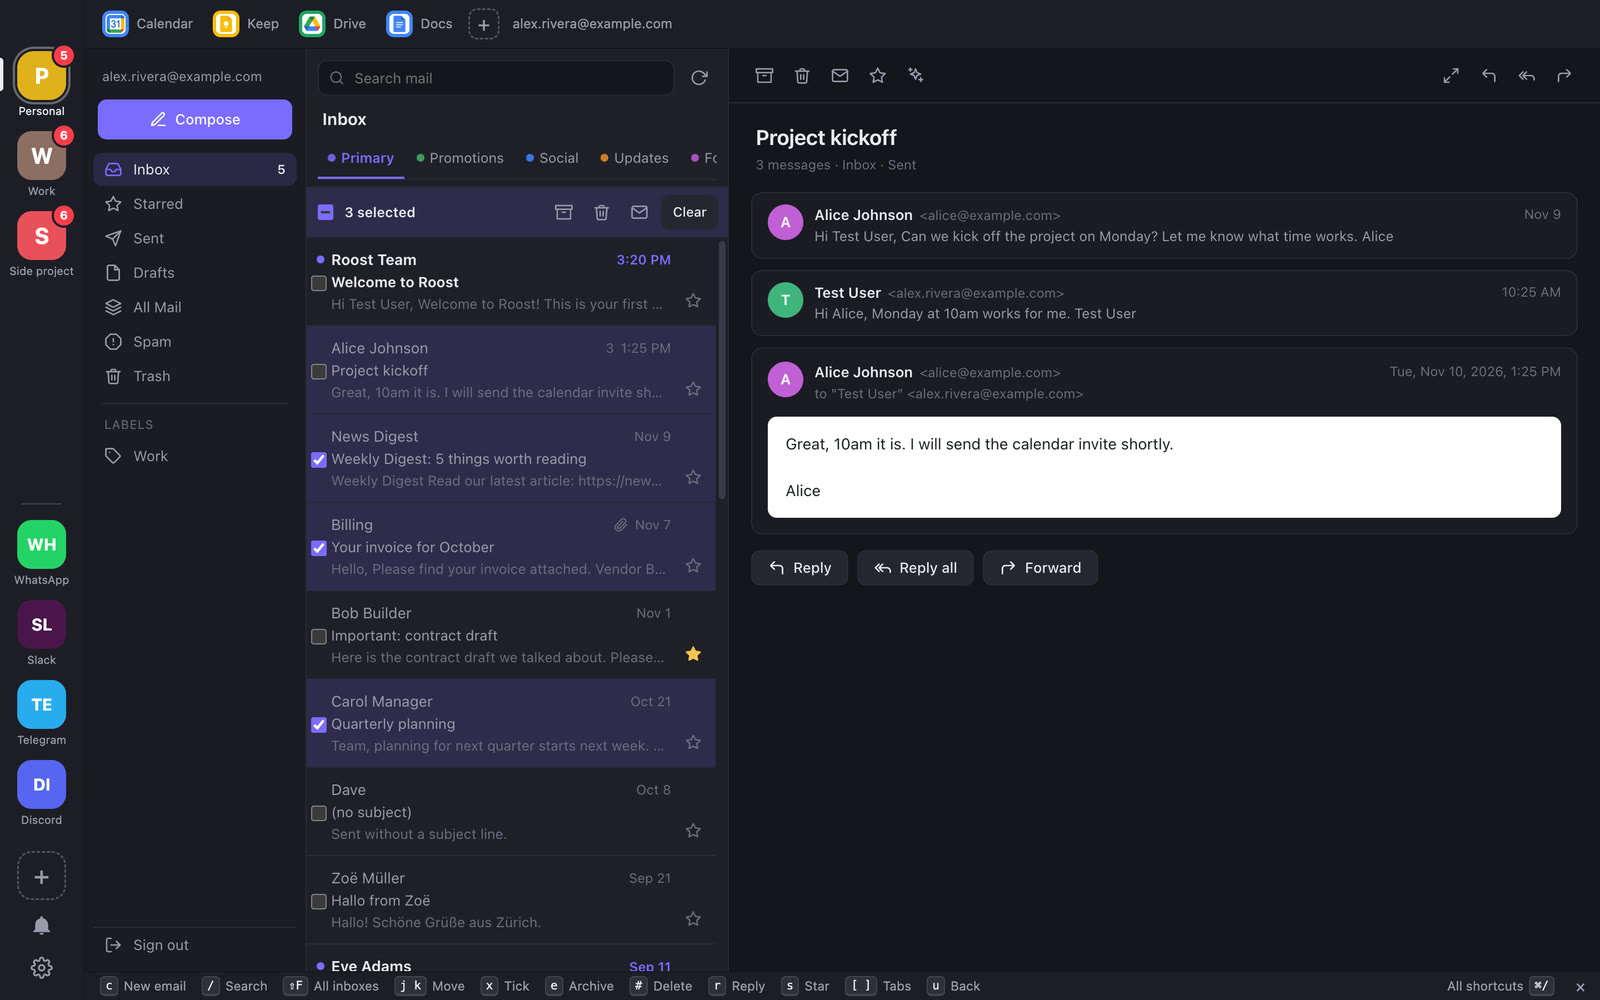
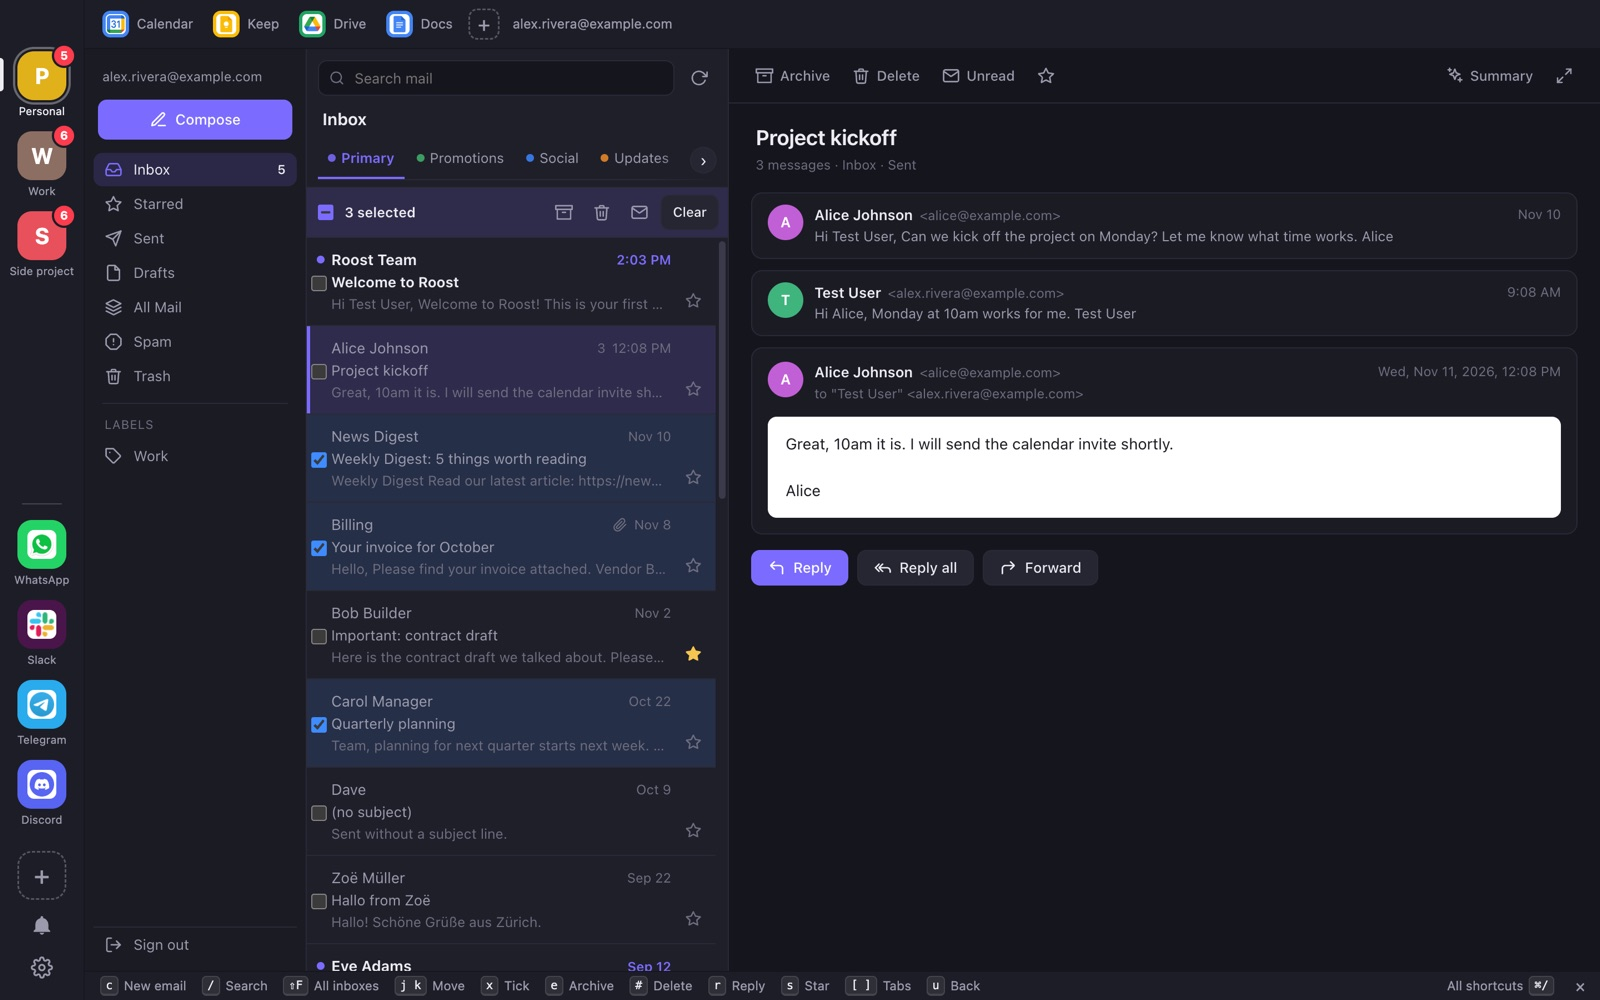
Homepage: Roost 0.2.0, releases section, new screenshots
- New "What's new" section with the 0.2.0 and 0.1.0 releases.
- Feature blocks for the welcome tiles, the Connect Gmail guide and
  the "All done" screen; Undo for delete; calmer badges.
- All screenshots regenerated from the fake test data.

diff --git a/index.html b/index.html
@@ -19,6 +19,7 @@
     <a class="brand" href="#top"><img src="icon.png" alt="" width="28" height="28"> Roost</a>
     <div class="links">
       <a href="#features">Features</a>
+      <a href="#releases">What's new</a>
       <a href="#install">Install</a>
       <a href="privacy.html">Privacy</a>
       <a class="gh" href="https://github.com/sylphdesign/roost">GitHub</a>
@@ -72,9 +73,26 @@
 
     <article class="feature reveal">
       <div class="copy">
+        <h3>Set up in a minute</h3>
+        <p>Pick the apps you use from tiles and add them all with one click. Connecting Gmail is a short guide: drop the key file you download from Google, and Roost fills in the rest.</p>
+        <ul><li>Chat apps: just sign in</li><li>Gmail: 4 steps with a progress bar</li><li>See Google's warning page before it shows up</li></ul>
+      </div>
+      <figure class="shot"><img src="img/00-welcome.jpg" alt="Welcome screen with tiles for Gmail, WhatsApp, Slack, Telegram, Discord, Messenger and Google Calendar" loading="lazy" width="1600" height="1000"></figure>
+    </article>
+
+    <article class="feature flip reveal">
+      <div class="copy">
+        <h3>Connect Gmail, step by step</h3>
+        <p>Google asks every desktop app to bring its own key. Roost walks you through it, checks what you paste, and remembers where you stopped.</p>
+      </div>
+      <figure class="shot"><img src="img/10-connect-gmail.jpg" alt="Connect Gmail guide on step 4 of 4 with a checked Client ID" loading="lazy" width="1600" height="1000"></figure>
+    </article>
+
+    <article class="feature reveal">
+      <div class="copy">
         <h3>Gmail, the way you like it</h3>
         <p>Inbox tabs — Primary, Promotions, Social, Updates, Forums — just like Gmail. Read, reply, archive, star. Images load by default; scripts stay blocked.</p>
-        <ul><li>Uses Google's official Gmail API</li><li>Many accounts, each separate</li><li>Optional AI help with your own Claude key</li></ul>
+        <ul><li>Uses Google's official Gmail API</li><li>Many accounts, each separate</li><li>Red badges only for mail from people</li><li>Optional AI help with your own Claude key</li></ul>
       </div>
       <figure class="shot"><img src="img/01-inbox.jpg" alt="Inbox with tabs and an open email" loading="lazy" width="1600" height="1000"></figure>
     </article>
@@ -83,12 +101,20 @@
       <div class="copy">
         <h3>Clear out in seconds</h3>
         <p>Delete or archive from the list without opening anything. Tick a few emails — or all of them — and act on the whole group.</p>
-        <ul><li><kbd>x</kbd> tick · <kbd>e</kbd> archive · <kbd>#</kbd> delete</li><li>Undo for archive</li></ul>
+        <ul><li><kbd>x</kbd> tick · <kbd>e</kbd> archive · <kbd>#</kbd> delete</li><li>Undo for archive and delete</li></ul>
       </div>
       <figure class="shot"><img src="img/02-select-many.jpg" alt="Three emails ticked with archive and delete buttons" loading="lazy" width="1600" height="1000"></figure>
     </article>
 
     <article class="feature reveal">
+      <div class="copy">
+        <h3>All done feels done</h3>
+        <p>Clear an inbox tab and Roost says so, counts what you cleared today, and shows your next meetings from Google Calendar.</p>
+      </div>
+      <figure class="shot"><img src="img/12-inbox-done.jpg" alt="All done in an empty inbox tab, with two upcoming meetings" loading="lazy" width="1600" height="1000"></figure>
+    </article>
+
+    <article class="feature flip reveal">
       <div class="copy">
         <h3>Search every inbox at once</h3>
         <p>Press <kbd>⌘</kbd><kbd>⇧</kbd><kbd>F</kbd> and type. Results come back grouped by inbox; press Enter to open the email where it lives. Gmail search words like <code>from:</code> and <code>has:attachment</code> work too.</p>
@@ -96,7 +122,7 @@
       <figure class="shot"><img src="img/03-search-all-inboxes.jpg" alt="Search results from three inboxes" loading="lazy" width="1600" height="1000"></figure>
     </article>
 
-    <article class="feature flip reveal">
+    <article class="feature reveal">
       <div class="copy">
         <h3>Your calendar follows your inbox</h3>
         <p>Calendar, Keep, Drive and Docs sit in the top bar and open as the account of the inbox you're in. Event reminders arrive ten minutes before.</p>
@@ -104,7 +130,7 @@
       <figure class="shot"><img src="img/04-calendar.jpg" alt="Week view of Google Calendar inside Roost" loading="lazy" width="1600" height="1000"></figure>
     </article>
 
-    <article class="feature reveal">
+    <article class="feature flip reveal">
       <div class="copy">
         <h3>Read in full view</h3>
         <p>Hide the list with <kbd>\</kbd> for a calm, full-width email. Or open emails next to the list, under it, or full screen — your choice.</p>
@@ -112,7 +138,7 @@
       <figure class="shot"><img src="img/05-full-view.jpg" alt="An email shown full width with the list hidden" loading="lazy" width="1600" height="1000"></figure>
     </article>
 
-    <article class="feature flip reveal">
+    <article class="feature reveal">
       <div class="copy">
         <h3>Make it yours</h3>
         <p>List width, compact rows, preview text, the labels column, quiet hours, quiet during calls, per-app notifications, and your own icon for every inbox.</p>
@@ -120,7 +146,7 @@
       <figure class="shot"><img src="img/06-settings-email-view.jpg" alt="Settings showing Email view options" loading="lazy" width="1600" height="1000"></figure>
     </article>
 
-    <article class="feature reveal">
+    <article class="feature flip reveal">
       <div class="copy">
         <h3>Keyboard first</h3>
         <p>Every action has a key, and a slim bar at the bottom shows the ones that matter right now. Press <kbd>⌘</kbd><kbd>/</kbd> for the full list.</p>
@@ -154,7 +180,33 @@
     <div class="stat reveal"><span class="stat-num" data-count="100" data-suffix="%">0</span><span class="stat-label">open source (MIT)</span></div>
   </section>
 
-  <!-- 6. Install -->
+  <!-- 6. Releases -->
+  <section class="releases" id="releases">
+    <header class="section-head reveal">
+      <p class="kicker">What's new</p>
+      <h2>Releases</h2>
+    </header>
+    <article class="release reveal">
+      <div class="release-head"><span class="tag latest">Latest</span><h3>Roost 0.2.0</h3><time datetime="2026-11-11">11 Nov 2026</time></div>
+      <p>An easier start, a calmer sidebar and safer mistakes. Plus a new Gmail composer.</p>
+      <ul>
+        <li><b>Welcome tiles</b> and a 4-step <b>Connect Gmail</b> guide: drop the key file, Roost fills in the rest.</li>
+        <li><b>Red badges mean people.</b> Promotions and updates get a gray number. Real app icons, shipped with Roost.</li>
+        <li><b>Undo for Delete</b>, a heads-up before Google's 7-day sign-out, and clear ticked rows.</li>
+        <li><b>Words on the toolbar</b>, an <b>All done</b> screen with your next meetings, and a Settings menu.</li>
+        <li><b>New composer:</b> rich text, recipient autofill, Smart Compose with your Claude key.</li>
+      </ul>
+      <a class="release-link" href="https://github.com/sylphdesign/roost/releases/tag/v0.2.0">Release notes →</a>
+    </article>
+    <article class="release reveal">
+      <div class="release-head"><h3>Roost 0.1.0</h3><time datetime="2026-11-10">10 Nov 2026</time></div>
+      <p>First public release: Gmail and Google Calendar inside Roost, WhatsApp, Slack, Telegram, Discord and Messenger in one window, many accounts, search all inboxes, quiet time.</p>
+      <a class="release-link" href="https://github.com/sylphdesign/roost/releases/tag/v0.1.0">Release notes →</a>
+    </article>
+    <p class="caption reveal"><a href="https://github.com/sylphdesign/roost/releases">All releases on GitHub</a> · <a href="https://github.com/sylphdesign/roost/blob/main/CHANGELOG.md">Changelog</a></p>
+  </section>
+
+  <!-- 7. Install -->
   <section class="install" id="install">
     <header class="section-head reveal">
       <p class="kicker">Get started</p>

diff --git a/styles.css b/styles.css
@@ -120,3 +120,20 @@ h3 { font-size: clamp(22px, 2.2vw, 30px); letter-spacing: -0.01em; margin-bottom
   .sticky { position: relative; height: 100vh; }
   .overlay .reveal-line:first-child { opacity: 1 !important; }
 }
+
+/* Releases */
+.releases { padding: 6vh clamp(16px, 5vw, 64px) 10vh; max-width: 980px; margin: 0 auto; display: grid; gap: 22px; }
+.release { padding: clamp(20px, 3vw, 32px); border-radius: var(--radius); background: #ffffff0a; border: 1px solid #ffffff14; display: grid; gap: 12px; }
+.release-head { display: flex; flex-wrap: wrap; align-items: baseline; gap: 10px 14px; }
+.release-head h3 { font-size: clamp(22px, 2.4vw, 28px); }
+.release-head time { color: var(--muted); font-size: 15px; font-variant-numeric: tabular-nums; }
+.release p { color: var(--muted); }
+.release ul { list-style: none; display: grid; gap: 8px; }
+.release li { padding-left: 22px; position: relative; }
+.release li::before { content: ""; position: absolute; left: 2px; top: .62em; width: 8px; height: 8px; border-radius: 50%; background: var(--amber); }
+.release b { color: var(--ink); }
+.tag { font: 600 12px/1 Inter, system-ui, sans-serif; letter-spacing: .06em; text-transform: uppercase; padding: 6px 10px; border-radius: 999px; background: #ffffff14; color: var(--ink); }
+.tag.latest { background: var(--amber); color: #2a1a00; }
+.release-link { color: var(--amber-soft); font-weight: 600; text-decoration: none; justify-self: start; }
+.release-link:hover, .release-link:focus-visible { text-decoration: underline; }
+.releases .caption a { color: var(--amber-soft); }
